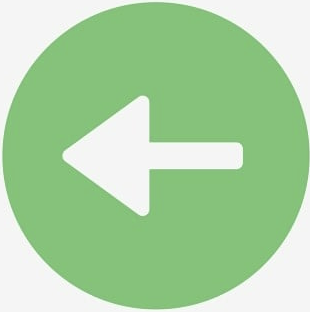
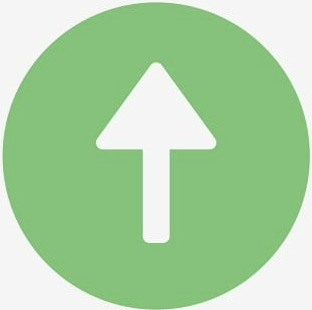
.

diff --git a/SSG_BS/mission/mission.py b/SSG_BS/mission/mission.py
@@ -19,10 +19,10 @@ class WindowClass(QMainWindow, form_class):
         self.next.hide()
         self.front.setIcon(QtGui.QIcon('front.png'))
         self.front.setIconSize(QtCore.QSize(75, 71))
-        self.front.setIcon(QtGui.QIcon('front.png'))
-        self.front.setIconSize(QtCore.QSize(75, 71))
-        self.front.setIcon(QtGui.QIcon('front.png'))
-        self.front.setIconSize(QtCore.QSize(75, 71))
+        self.left.setIcon(QtGui.QIcon('left.png'))
+        self.left.setIconSize(QtCore.QSize(75, 71))
+        self.right.setIcon(QtGui.QIcon('right.png'))
+        self.right.setIconSize(QtCore.QSize(75, 71))
         self.chat.setText("미션이 도착했습니다. 확인해보세요!")
         self.menu.setCheckable(True)
         self.menu.clicked.connect(self.slot_toggle)
@@ -75,6 +75,9 @@ class WindowClass(QMainWindow, form_class):
     def nextButton(self):
         self.chat.setText("도서관을 찾으러 갑시다.")
         self.next.hide()
+        self.front.show()
+        self.left.show()
+        self.right.show()
 
     def closeEvent(self, QCloseEvent):
         re = QMessageBox.question(self, "종료 확인", "종료 하시겠습니까?", QMessageBox.Yes | QMessageBox.No)
